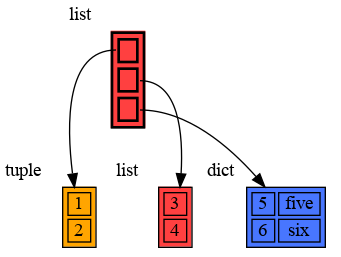
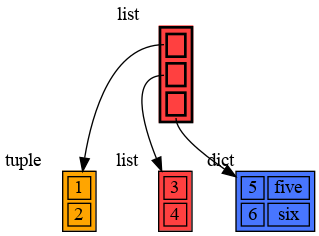
using the 'rank=same' trick only on untaken node-childeren and while backtracking through the nodes tree, now works nicely!

diff --git a/memory_graph/graphviz_nodes.py b/memory_graph/graphviz_nodes.py
@@ -14,6 +14,9 @@ uncategorized_color="red"
 padding=0
 spacing=3
 
+
+taken_children=set()
+
 def type_category_to_color(type_catergory):
     if type_catergory in type_category_to_color_map:
         return type_category_to_color_map[type_catergory]
@@ -89,25 +92,31 @@ def create_node(node,all_nodes,graph):
     type_name=get_type_name(node)
     color=type_category_to_color(get_type_category(node))
     graph.node(name, node_label, xlabel=type_name)
+    my_children=[]
     for node_src,node_dst in get_refs(node,all_nodes):
-        graph.edge(node_src, node_dst, weight='0')
-    if rewrite.is_linear_type(node.get_original_data()):
-        children=[node_dst for node_src,node_dst in get_refs(node,all_nodes) ]
-        if len(children)>1:        
-            lineup=" -> ".join( children )
-            graph.body.append("{ rank=same  "+lineup+"  [weight=10,style=invis]; }\n") # dotted / invis
+        if node_dst in taken_children:
+            graph.edge(node_src, node_dst, weight='0')
+        else:
+            graph.edge(node_src, node_dst)
+            taken_children.add(node_dst)
+            my_children.append(node_dst)
+    if len(my_children)>1:
+        lineup=" -> ".join(my_children)
+        graph.body.append("{ rank=same  "+lineup+"  [weight=99,style=invis]; }\n")
     
 def create_graph_recursive(all_nodes,node_index,memo,graph):
     if not node_index in memo:
         memo.add(node_index)
         node=all_nodes[node_index]
-        create_node(node,all_nodes,graph)
         for e in node.get_elements():
             ref=e.get_ref()
             if ref:
                 create_graph_recursive(all_nodes,ref,memo,graph)
+        create_node(node,all_nodes,graph) # create while backtracking recursion 
 
 def create_graph(all_nodes):
-    graph=graphviz.Digraph('memory_graph', node_attr={'shape':'plaintext'})
+    global taken_children
+    taken_children=set()
+    graph=graphviz.Digraph('memory_graph', graph_attr={'concentrate':'true'}, node_attr={'shape':'none', 'margin':'0'})
     create_graph_recursive(all_nodes,0,set(),graph)
     return graph
